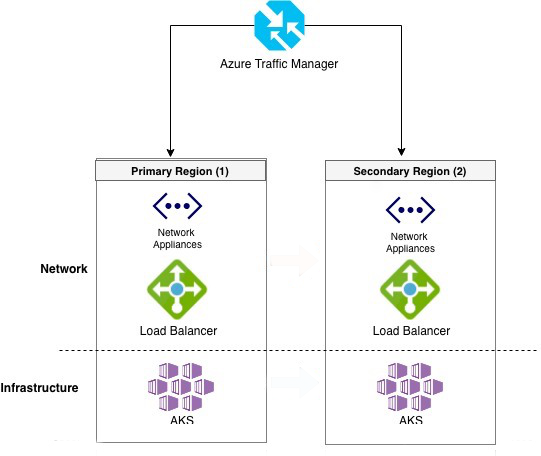
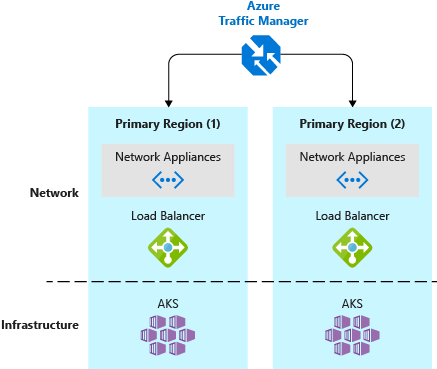
[AKS] Updating with final graphics

diff --git a/articles/aks/operator-best-practices-bc-dr.md b/articles/aks/operator-best-practices-bc-dr.md
@@ -110,7 +110,7 @@ Depending on the storage solution use, replication strategies may be different. 
 
 The central approach is a common storage point for applications to write their data. This data is then replicated across regions and then accessed locally.
 
-![Infrastructure-based asynchronous replication](media/operator-best-practices-bc-dr/aks-infra-based-async-repl.jpg)
+![Infrastructure-based asynchronous replication](media/operator-best-practices-bc-dr/aks-infra-based-async-repl.png)
 
 If you use Azure Managed Disks, available replication and DR solutions include using one of the following approaches:
 
@@ -121,7 +121,7 @@ If you use Azure Managed Disks, available replication and DR solutions include u
 
 There is currently no Kubernetes-native implementation for application-based asynchronous replication. With the loosely coupled nature of containers and Kubernetes, any traditional application or language approach should work. The central approach is for the applications themselves to replicate the storage requests that are then written to each cluster's underlying data storage.
 
-![Application-based Asynchronous Replication](media/operator-best-practices-bc-dr/aks-app-based-async-repl.jpg)
+![Application-based Asynchronous Replication](media/operator-best-practices-bc-dr/aks-app-based-async-repl.png)
 
 ## Next steps
 
